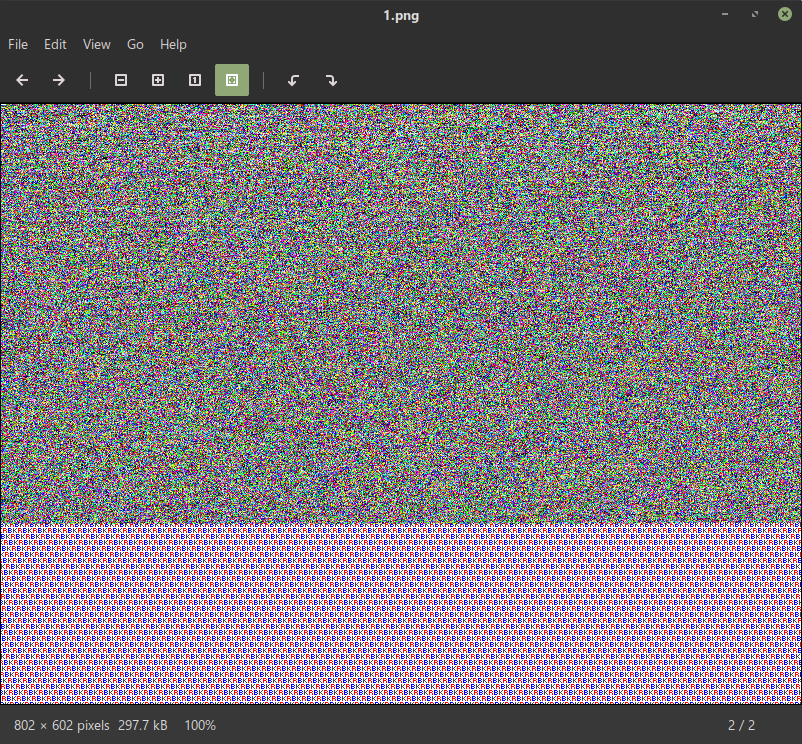
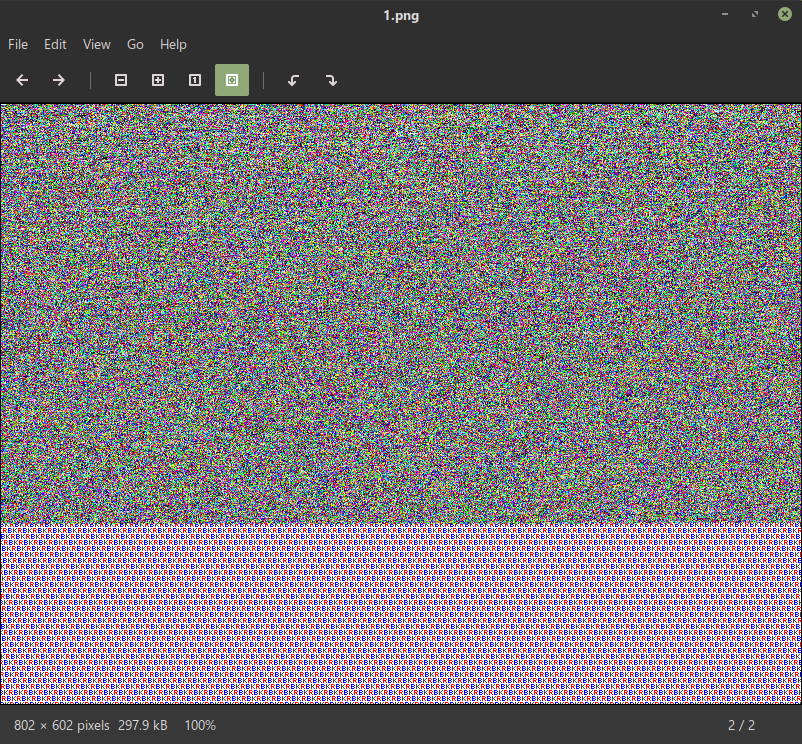
fix rbk

diff --git a/m2/convert.py b/m2/convert.py
@@ -223,7 +223,7 @@ class File2Image(Common):
         rbk = 'rrr..bbb..k..k.,' \
               'r..r.b..b.k.k..,' \
               'rrr..bbb..kk...,' \
-              'r..r.b..b.k.k..,' \
+              'r.r..b..b.k.k..,' \
               'r..r.bbb..k..k.,' \
               '...............'
         rbk = rbk.split(',')
